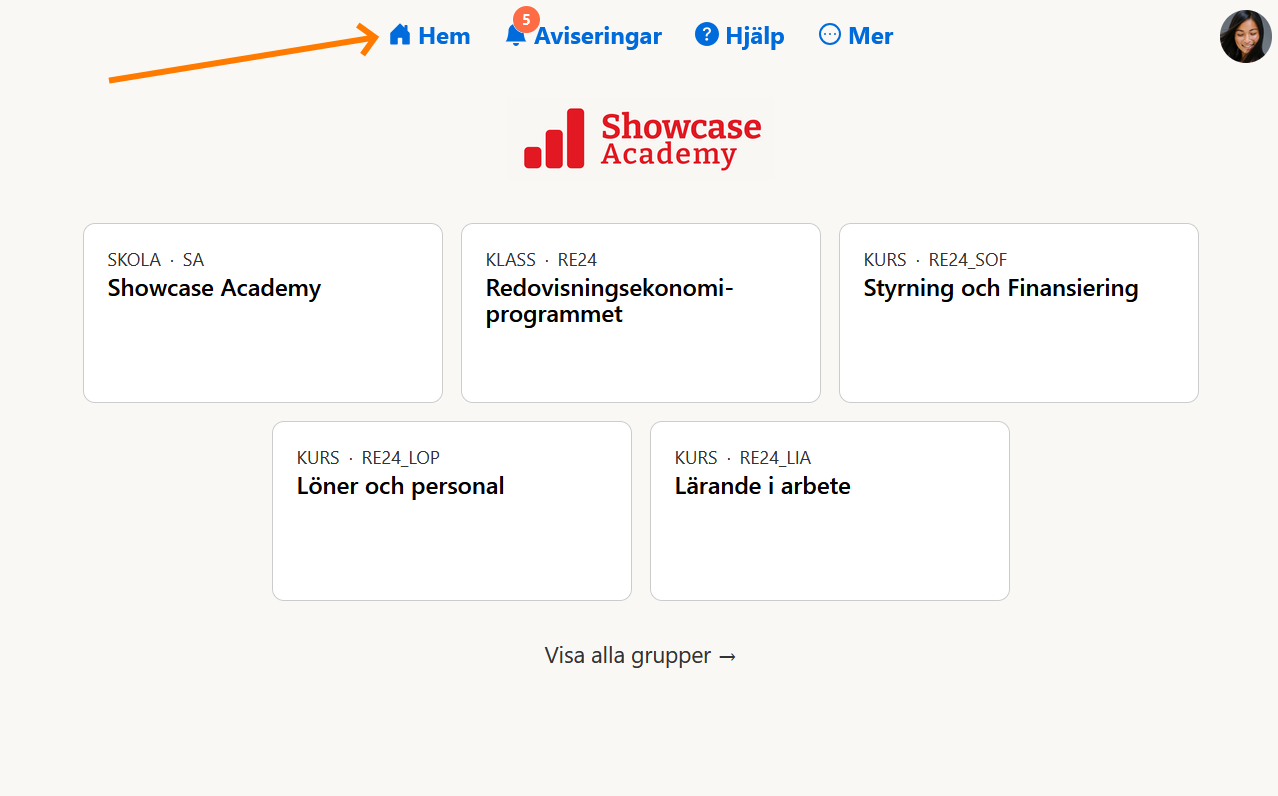
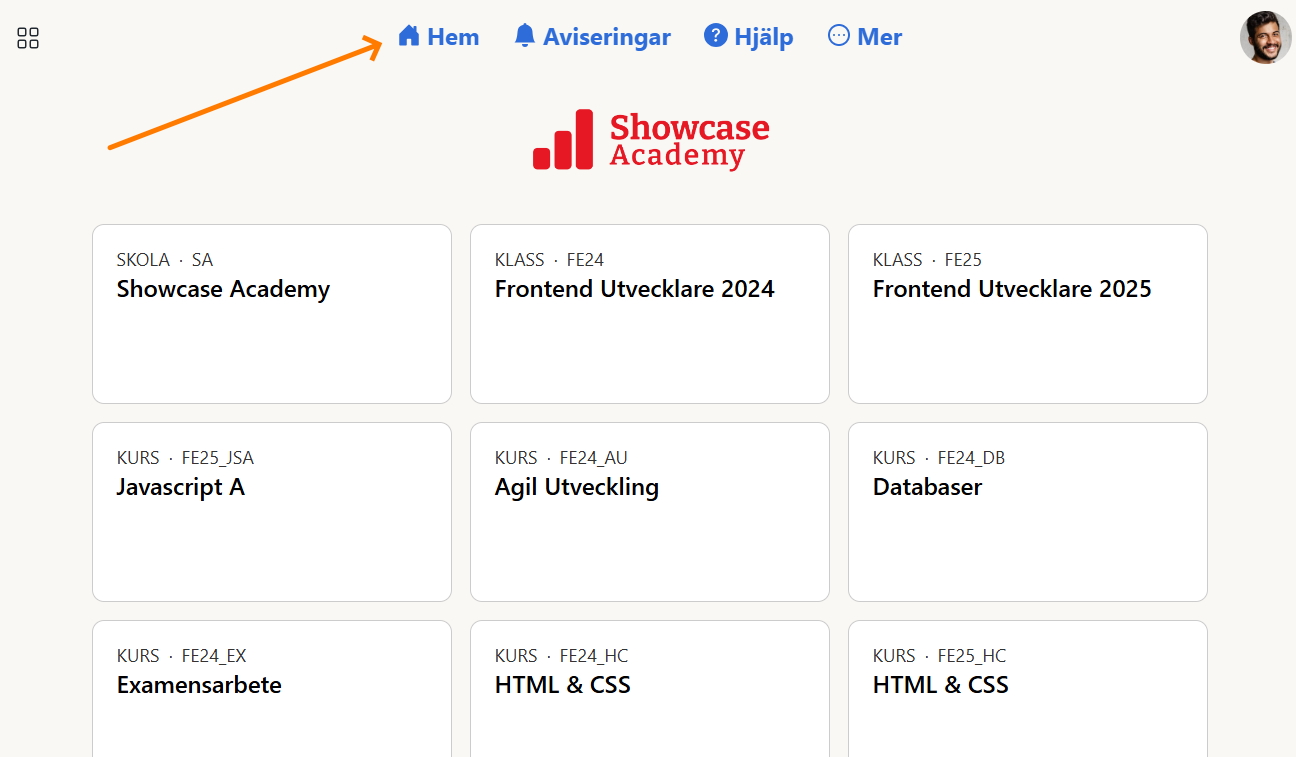
added group shortcuts to help documentation

diff --git a/docs/help/groups/introduction.html b/docs/help/groups/introduction.html
@@ -197,7 +197,18 @@
         <span class="desktop-screenshot__browser-frame-button"></span>
     </div>
 
-    <img alt="{{alt}}" src="_assets/current-groups.png" onload="this.parentElement.classList.add('LOADED')" />
+    <img alt="Aktuella grupper" src="_assets/current-groups.png" onload="this.parentElement.classList.add('LOADED')" />
+</div>
+
+<p>Du kan också se dina aktuella grupper bland genvägarna som finns längst upp till vänster:</p>
+<div class="desktop-screenshot print__avoid-break-inside default">
+    <div class="desktop-screenshot__browser-frame">
+        <span class="desktop-screenshot__browser-frame-button"></span>
+        <span class="desktop-screenshot__browser-frame-button"></span>
+        <span class="desktop-screenshot__browser-frame-button"></span>
+    </div>
+
+    <img alt="Genvägar till grupper" src="_assets/group-shortcuts.png" onload="this.parentElement.classList.add('LOADED')" />
 </div>
 
 
@@ -210,7 +221,7 @@
         <span class="desktop-screenshot__browser-frame-button"></span>
     </div>
 
-    <img alt="{{alt}}" src="_assets/groups.png" onload="this.parentElement.classList.add('LOADED')" />
+    <img alt="Visa alla grupper" src="_assets/groups.png" onload="this.parentElement.classList.add('LOADED')" />
 </div>
                     <div class="help-page__next-page-link print__hide">
                         <span>Nästa:</span>

diff --git a/src/help/groups/introduction.md b/src/help/groups/introduction.md
@@ -18,15 +18,20 @@ Learnpoint är huvudsakligen organiserat i grupper. Varje grupp innehåller info
 
 Det finns tre typer av grupper: *Skola*, *Klass* och *Kurs*. Dom fungerar ungefär på samma sätt, men det finns några skillnader. Exempelvis finns funktionen *Innehåll* finns endast i kurser, och funktionen *Material* finns endast i klasser och skolan.
 
+
 ## Aktuella grupper
 
 "Aktuella grupper" är dom som visas på startsidan. Klicka på `Hem` för att se dina aktuella grupper:
 
-<!-- desktop-screenshot.html, { src: "_assets/current-groups.png" } -->
+<!-- desktop-screenshot.html, { src: "_assets/current-groups.png", alt: "Aktuella grupper" } -->
+
+Du kan också se dina aktuella grupper bland genvägarna som finns längst upp till vänster:
+
+<!-- desktop-screenshot.html, { src: "_assets/group-shortcuts.png", alt: "Genvägar till grupper" } -->
 
 
 ## Alla grupper
 
 Klicka på `Visa alla grupper` för att se och söka bland alla dina grupper:
 
-<!-- desktop-screenshot.html, { src: "_assets/groups.png" } -->
+<!-- desktop-screenshot.html, { src: "_assets/groups.png", alt: "Visa alla grupper" } -->
